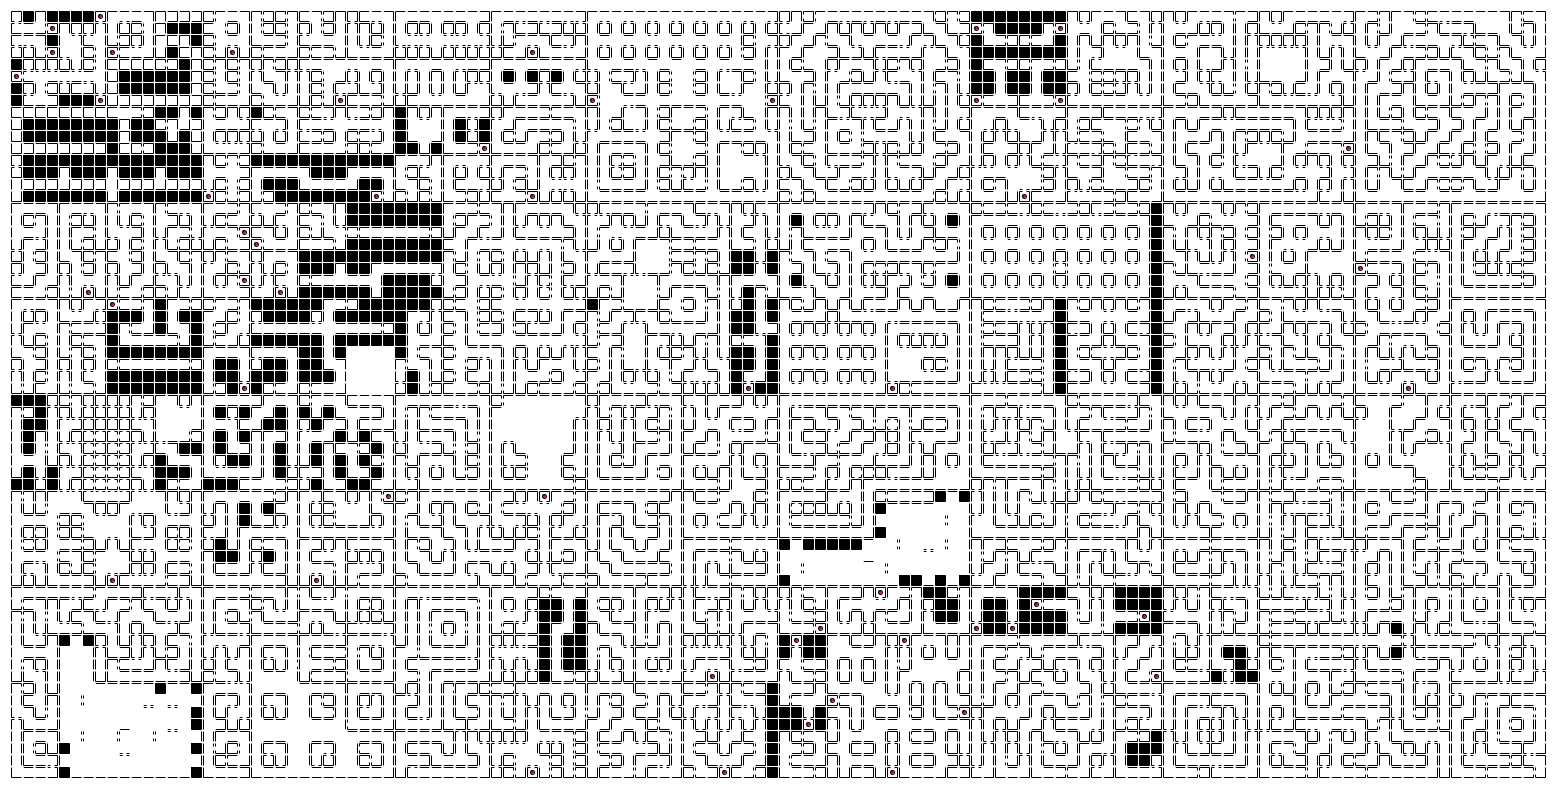
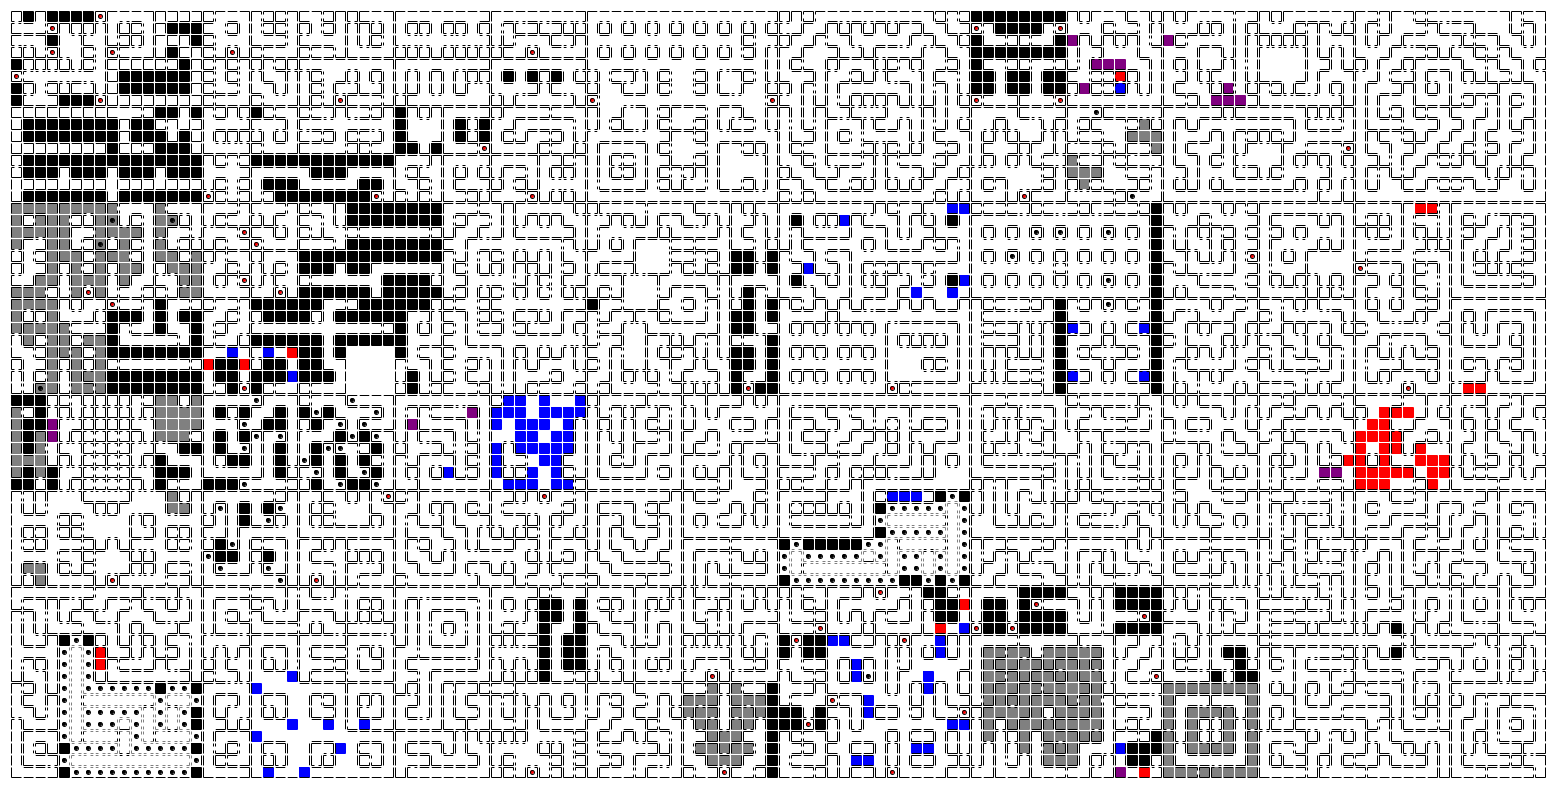
Update map

diff --git a/README.md b/README.md
@@ -27,6 +27,73 @@ SFC版についてのデータをまとめています。
 
 ### 3Dダンジョン
 
-黒く塗られているのは未定義の領域。
-
 ![3d-map](https://github.com/akiomik/smt1-note/blob/main/map.png?raw=true)
+
+3Dダンジョンのデータはメモリ上の `0x048000` 〜 `0x4BFFF` の範囲。
+各マスは壁データ1 byteとイベントデータ1byteの合計2 byteで表現され、以下のようなデータ構造を持っている。
+
+<table>
+  <tbody>
+    <tr>
+      <td colspan="8">byte 0 (壁)</td>
+      <td colspan="8">byte 1 (イベント)</td>
+    </tr>
+    <tr>
+      <td colspan="2">北</td>
+      <td colspan="2">東</td>
+      <td colspan="2">南</td>
+      <td colspan="2">西</td>
+      <td>暗闇</td>
+      <td>宝箱</td>
+      <td colspan="2">アクセス不可</td>
+      <td colspan="4">イベント</td>
+    </tr>
+    <tr>
+      <td>7</td>
+      <td>6</td>
+      <td>5</td>
+      <td>4</td>
+      <td>3</td>
+      <td>2</td>
+      <td>1</td>
+      <td>0</td>
+      <td>7</td>
+      <td>6</td>
+      <td>5</td>
+      <td>4</td>
+      <td>3</td>
+      <td>2</td>
+      <td>1</td>
+      <td>0</td>
+    </tr>
+  </tbody>
+</table>
+
+壁データは北・東・南・西と2bitごとに分かれており、値により以下の意味を持つ。
+
+- `00`: なし
+- `01`: 壁 (黒線)
+- `10`: 隠しドア (灰色破線)
+- `11`: ドア (黒破線)
+
+イベントデータは上位4bitがフラグになっており、下位4bitとの組み合わせによってそのマスで発生するイベントを表している。
+
+- `0x00`: なし
+- `0x01`: 回転床
+- `0x02`: 毒床 (紫)
+- `0x03`: ダメージ床 (Law, Neutralのみ対象。赤)
+- `0x04`: ダメージ床 (Neutral, Chaosのみ対象。青)
+- `0x05`: 落とし穴 (黒丸)
+- `0x06`: ワープ
+- `0x07`: 出入り口 (赤丸)
+- `0x08`: 上り階段
+- `0x09`: 下り階段
+- `0x0A`: 看板
+- `0x0B`: メッセージ
+- `0x0C`: エレベータ
+- `0x0D`: イベント
+- `0x0E`: イベント
+- `0x0F`: 不明
+- `0x30`: アクセス不可 (黒)
+- `0x40`: 宝箱
+- `0x80`: 暗闇 (灰色)
